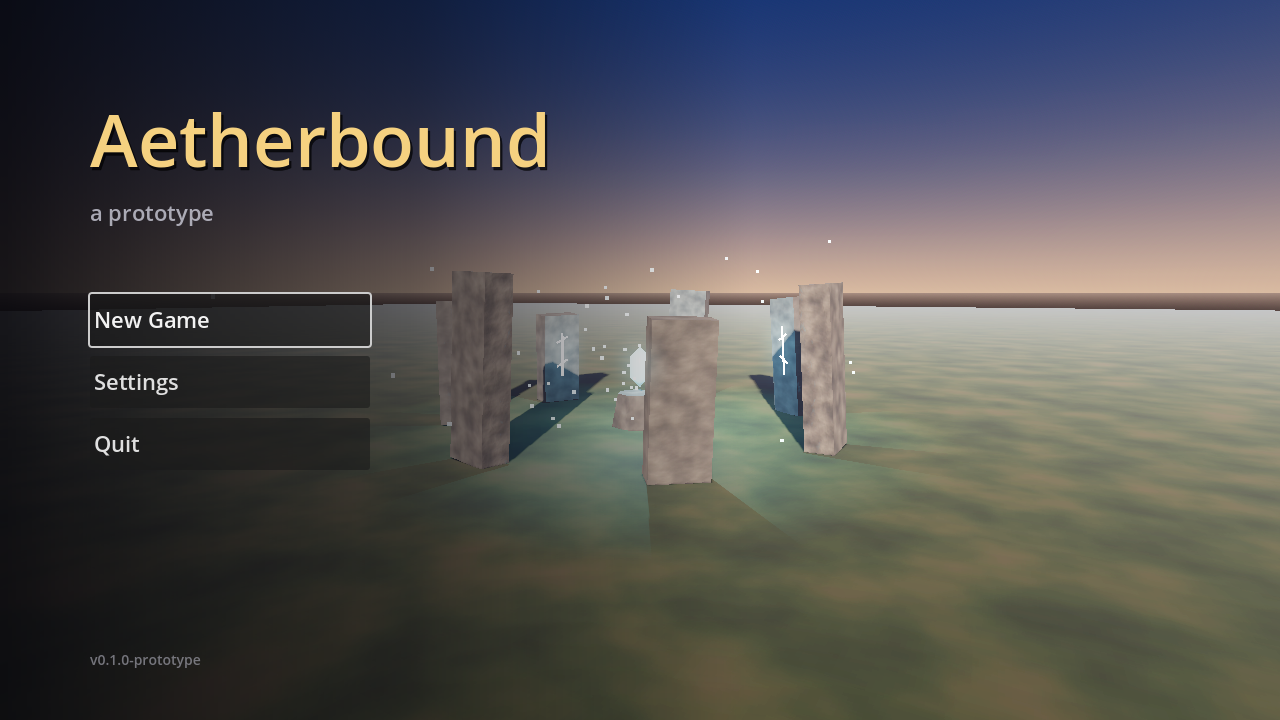
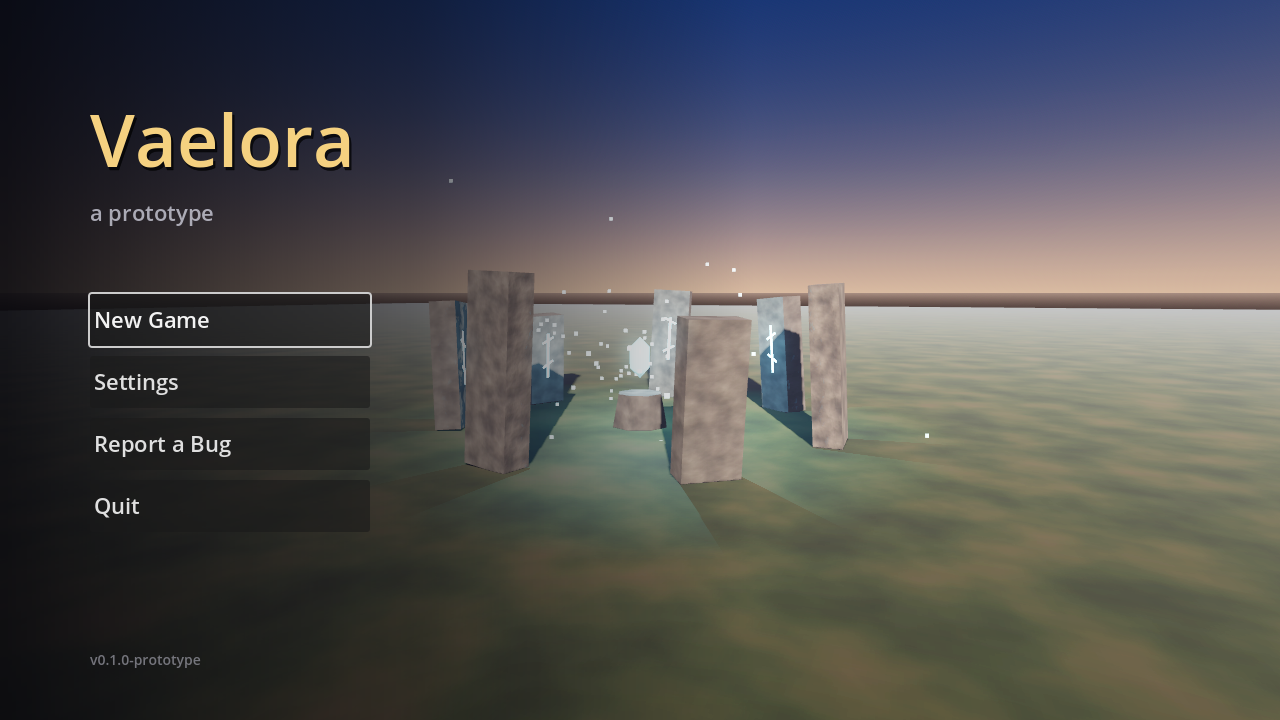
Add LORE.md v1 from the questionnaire answers; title becomes Vaelora
- LORE.md: the world of Vaelora drafted from the answers (kept verbatim
  in docs/lore/): the Arrival of alien lifeforms that brought magic, a
  magic-instead-of-gunpowder medieval world, two moons, magic that
  corrupts when practised corruptly, absent gods, seven races (three
  playable in the demo), the river valley and borderland forest, the
  Riverwatch garrison and forest outlaws, the main threat (lifeforce of
  magical beings being drained to build an army), death as waking up
  wounded or captured. Everything filled in rather than answered is
  marked (suggested), with eight questions for the next round.
- Title screen shows Vaelora; the project name in Project Settings is
  left as is (it decides the save folder).
- Roadmap open questions updated with the answers.

Claude-Session: https://claude.ai/code/session_01BPE8ZczZ4hZnRHyCfMJwVS

diff --git a/LORE.md b/LORE.md
@@ -1,0 +1,236 @@
+# Vaelora: lore bible (draft v1)
+
+Built from your questionnaire answers of 24 October 2026 (kept verbatim in
+`docs/lore/questionnaire-answers-2026-10-24.txt`).
+
+- **Plain text** is what you decided.
+- ***(suggested)*** marks what I filled in to make it hang together. Approve, change or strike
+  each one. Nothing suggested goes into the game until you've said yes.
+- **Questions for you** are collected at the end. Short answers are fine.
+
+---
+
+## In one paragraph
+
+**Vaelora** is a medieval world that took a different road. Long ago, living things from
+another world arrived and brought magic, and strange creatures, with them. Instead of
+inventing gunpowder, Vaelora's peoples learned magic. Anyone can learn it, few master it, and
+used carelessly it corrupts the user. Now, in a river valley on the edge of an old forest,
+the most magical beings are being found **drained of their life**. Someone is taking it,
+and legends nobody believed say it's being used to build an army. You arrive as whoever you
+chose to be: a soldier, a scholar, an outlaw. By the end of the demo you've followed the trail
+far enough to see how big it is.
+
+## Tone and pillars
+
+| | Decision |
+|---|---|
+| **Feel most** | **Wonder** (strange ruins, impossible lights) and **power** (from nobody to legend) |
+| **Hope vs. bleak** | Middle (3/5): the world has real danger and loss, but people and places worth saving |
+| **Humour** | Dry and wry (4/5), like Fallout's: wit in characters and situations, never a joke at the world's expense |
+| **Magic** | High (4/5): visible, spectacular at the top, learnable by anyone |
+| **Strangeness** | High (4/5): familiar medieval ground with alien things in it |
+| **Loves** | Skyrim and Fallout (freedom, sandbox, lore), Game of Thrones (dragons, characters, story), Project Zomboid (survival), Lord of the Rings (a vast world) |
+| **Never** | A chosen-one prophecy; elves perfect and wise or orcs evil brutes; "ancient evil returns" as the only plot |
+
+**The picture to aim for** (your answer to question 30): *walking over a hill crest at dusk,
+hearing a curling scream, seeing a red-eyed monster look up at you, and then a powerful mage
+flies past and runs right through it, killing it instantly.* That moment carries three things
+the game should keep doing: dread in the wild, magic that is overwhelming at its peak, and
+the promise that **you could become that mage**.
+
+---
+
+## The world
+
+### The Arrival
+
+Long ago *(suggested: about 900 years, in the early medieval era)*, **lifeforms from another
+world** came to Vaelora. They brought **magic**, and **creatures** that had never existed
+here. Everything changed after that.
+
+- *(suggested)* Vaelorans call it **the Arrival**. Every people tells it differently (your
+  answer to question 5): some say they themselves came with it, some say it came to them,
+  some say it was a punishment.
+- *(suggested)* The arrivals themselves are rarely seen and poorly understood. Scholars call
+  them **the Vael** (the world's name is taken from theirs), others say "the Visitors". Are
+  they still here? Hidden, gone, or living inside the magic itself? That's a mystery for the
+  full game, not the demo.
+
+### A different road
+
+Magic arrived in medieval times, so instead of developing guns, people leaned into magic.
+Vaelora looks medieval, with castles, walled river towns, longhouses at the forest edge and
+guild halls. But its "technology" is magical: *(suggested)* rune-lit streets in rich towns,
+enchanted locks, healing colleges instead of barber-surgeons, and no gunpowder at all.
+
+### The sky
+
+**Two moons, with tides of power.**
+- *(suggested)* **Ilun**, the old moon, white, always there.
+- *(suggested)* **The Wanderer**, a smaller green-tinged moon that appeared with the Arrival.
+  When it's dark (a "new Wanderer"), old stones and buried relics wake. This ties to what's
+  already in the game: the stone circle glows at the new moon, and wisps come out at night.
+- *(suggested)* When both moons are full, magic surges: spells are stronger and corruption
+  spreads faster. A future world event.
+
+---
+
+## Magic
+
+- **Where it comes from:** the alien lifeforms brought it. With practice anyone can learn to
+  use it, but few can master it.
+- **What it costs:** using it **corruptly** corrupts you, physically (exhaustion, corruption,
+  madness). *(suggested)* "Corrupt" practice means taking what isn't yours: drawing power from
+  another living thing instead of from yourself and the world. That's exactly what the force
+  behind the main threat is doing, at scale.
+- **How people see mages:** both respected and feared. *(suggested)* Mages trained in the
+  **colleges** are respected and licensed. An unlicensed mage is watched, and the Riverwatch
+  garrison can arrest one. Hedge-mages in the forest don't care.
+- *(suggested)* At the peak, masters can **fly**, as in your scene. Flight is far beyond the
+  demo: something the player sees, and wants.
+
+## Gods and belief
+
+- **The gods are dead or absent, their followers still argue, and each race believes
+  differently. Nobody knows the truth.**
+- **Something answers prayers, but nobody knows what.** Magic is real; the gods are unknown.
+- *(suggested)* The shrines in the demo (the Acolyte background's "old rites") honour gods
+  who never answer in words, yet healing prayers really do work. Is it the gods, the magic,
+  or the Vael? Another mystery for the full game.
+
+---
+
+## The peoples
+
+**At least seven races in the full game.** Every race has its twisted and its dignified
+sorts. There's racial tension, as everywhere, but for the most part anyone can be anything.
+
+**In the demo:** Human, Elf and Orc are playable. Every new playable race needs models,
+animation and voices, so the others appear in the lore, and maybe as rare NPCs, first.
+
+| Race | *(suggested)* one line | Name style *(suggested)* |
+|---|---|---|
+| **Humans** | The most numerous; river-traders, farmers and garrison soldiers, practical and stubborn. Most of the colleges' students are human, because they'll try anything | Celtic/Gaelic in the valley (Maren, Eilidh), Norse/Germanic in the borderland (Brannoc, Sigrun) |
+| **Elves** | Long-lived, and the people most changed by the Arrival. Some say it made them. Brilliant mages, but also the most prone to corruption. Proud families with old debts | Invented and flowing (Ithariel, Sennaveth) |
+| **Orcs** | Clans bound by oaths and work; the best smiths and the steadiest soldiers. Distrust easy magic, so their mages are rare and formidable | Hard and guttural (Grukka, Durzhak) |
+| Four more | To decide later (see the questions) | |
+
+*(suggested)* Two more name styles have a place: **Latin/Imperial** for the colleges and old
+institutions (titles, spell names, the law), and **Slavic** for the forest folk and outlaws.
+
+---
+
+## The demo region
+
+**A temperate river valley in autumn, at the edge of a wild borderland forest**: farmland
+and colour by the river, deep old woods beyond it. *(suggested)* Name: **the Greywater Vale**,
+with **the Thornwood** to the north.
+
+What's there (already in the game, kept):
+- **Riverwatch**: the garrison town on the river (off-screen in the test level).
+- **The north road** and **Maren's waystation**.
+- **The stone circle** with its waking crystal, and **the Waking Stones** quest.
+- **The Greyfang pack** in Greyfang Hollow.
+- **The bandit camp**.
+- **The Old Barrow** and its **Stone Guardian**.
+- **Wisps** at the stones by night. *(suggested)* They're small magical beings, which makes
+  them the first victims of the drain (see below).
+
+## Factions (reputation only in the demo; joining comes in the full game)
+
+| Faction | Where | Stance |
+|---|---|---|
+| **Riverwatch Garrison** | The town | The law, stretched thin. Licenses mages and hangs bandits |
+| **The outlaws** *(suggested name: the Thornwood Free)* | The forest | Say the law is the real problem: taxes, mage licences, a garrison that never comes when farms burn. Some of them are just thieves, some have a point |
+
+The current bandit camp becomes the rough edge of the outlaws: the ones who stopped having a point.
+
+---
+
+## The main threat: the Draining *(name suggested)*
+
+An **unknown force is stealing the lifeforce of the most magical beings** and building an
+unknown army. There are legends, but no one thought it could be real.
+
+To keep clear of "ancient evil returns" and of a chosen one, this is my suggestion:
+- *(suggested)* **It's people, and it's new.** Behind the legend is a circle of corrupt mages
+  who learned to take life from magical beings. That's exactly the corruption the colleges
+  warn about, done on purpose. The legend is old; the people living it out are not.
+- *(suggested)* **What the player sees first:** wisps fading at the stones, a Greyfang wolf
+  found hollow and grey, the stone circle waking early. Small wrong things.
+- *(suggested)* **Monsters stay rare** (your answer to question 24). Most fights are people:
+  bandits, outlaws, cultists. Their "army" is mostly hired swords so far, plus a few
+  creatures stuffed with stolen life.
+- **The demo ends with one creature boss seeping with magic** (your answer to question 23).
+  *(suggested)* It's the first of the army's creatures: a beast swollen and unstable with
+  stolen life, half-finished. Killing it shows how much life they've already taken, and
+  where it was sent. That's the cliffhanger.
+- **One ending, but how you got there changes what people say about you**, and the demo ends
+  on that cliffhanger. Riverwatch and the outlaws remember who helped them.
+
+## Who you are
+
+The start depends on your background. *(suggested)* Each of the six arrives in the valley
+for its own reason, and the first conversation knows why:
+
+| Background | *(suggested)* why you're here |
+|---|---|
+| Soldier | Posted to Riverwatch, short-handed |
+| Scholar | Sent by a college to study the waking stones |
+| Outlaw | Running from a bounty, toward the forest |
+| Hunter | Following the Greyfang's strange tracks |
+| Acolyte | Sent to a shrine whose prayers stopped working |
+| Merchant | Your caravan never reached Riverwatch |
+
+---
+
+## Death: you wake up wounded
+
+Death means **waking up wounded**: sometimes captured by enemies, sometimes found by allies.
+The point is variety.
+
+*(suggested)* What that could look like:
+- **Found:** you wake at the waystation or a camp, with a lasting injury (lower maximum
+  health for a day) and a cost (gold, or a lost item).
+- **Captured:** if bandits or outlaws beat you, you wake in their camp without your gear, and
+  escaping is a short sequence: sneak, fight, or talk.
+- **Left for dead:** in the wild, you wake where you fell, hours later, hurt and cold.
+
+*(suggested)* Build this for **Hardcore first**, with Normal keeping reload-your-save, then
+consider it for both after playtesting. Capture needs its own escape scenes, so it's a real
+chunk of work.
+
+## Names kept and changed
+
+| | |
+|---|---|
+| **Game title** | **Vaelora** (was Aetherbound). Also the world's name |
+| Kept | Riverwatch, the Greyfang pack, Maren, Brannoc, the Waking Stones and the stone circle, wisps, the Stone Guardian and the Old Barrow, Greyfang Hollow, Bandit Camp |
+
+## Production decisions recorded
+
+- **Asset budget:** free for now; spend whatever is needed later.
+- **Attributes and traits:** decide after the playtest.
+
+---
+
+## Questions for you
+
+Short answers are fine, e.g. "1: yes, 2: Ilun ok, rename Wanderer to X".
+
+1. **The Vael:** keep "the Vael" as the name of the arrivals, or another name? Should anyone
+   ever meet one, even in the full game?
+2. **The moons:** OK with Ilun and the Wanderer (the Wanderer arriving with the Vael)?
+3. **The four other races:** any you already have in mind? If not, I'll offer a shortlist
+   that fits the Arrival (for example a people who came *with* it, and a people it changed).
+4. **The Draining:** are corrupt mages behind it right for you, or should the unknown force be
+   something else (the Vael themselves, a creature, a god)? This decides the whole main quest.
+5. **The region:** Greywater Vale and the Thornwood, or other names?
+6. **The outlaws:** "the Thornwood Free", or another name?
+7. **Death:** Hardcore first, Normal keeps reload? Or wake-up-wounded for everyone?
+8. **Elves:** OK with them as the people most changed by the Arrival, and most prone to
+   corruption?
+
+Once these are settled, next is the **demo questline outline**: 3–5 main quests and 5–8 side
+quests, as a one-page outline for you to approve before anything is built.

diff --git a/README.md b/README.md
@@ -17,7 +17,7 @@ The full design plan, pillars, scope, and foundational decisions are in [DESIGN.
 
 ## Current Status
 
-Godot 4 project in [`godot/`](godot): a title screen, a character creator (race, background, traits, attributes, Survival and Hardcore modes) with active powers and perk trees, first-person controller with mantling and vaulting, a day/night cycle, survival needs with campfires and beds, Health/Stamina/Magicka, skills that improve with use and character levels, inventory/gold/loot, magic (8 spells in 3 schools: streams, bolts, bursts, wards and self spells, with dual-casting), save slots with a pause menu and settings (graphics presets, an FPS counter, key rebinding, a bug-report button), footsteps by surface and day/night ambience, E-to-interact, JSON dialogue, and Avowed-style melee (combos, charged heavy attacks, block, parry, dodge, stagger) with seven weapon types (sword, dagger, axe, mace, greatsword, shield, bow) against a pathfinding wolf pack that telegraphs its bites, a bandit camp whose bandits guard, parry and take turns, and wisps that haunt the stone circle at night, a greybox dungeon with traps, a lever puzzle and a stone guardian boss, three quests (one with three endings) tracked in a journal with a compass, quest markers and a map, and Riverwatch faction reputation. Guides: [setup & collision](docs/godot-starter/FIRST_PERSON_SETUP.md), [dialogue](docs/godot-starter/DIALOGUE.md), [races](docs/godot-starter/RACES.md), [stats, saving, title screen, settings & graphics](docs/godot-starter/STATS_AND_SAVING.md), [combat](docs/godot-starter/COMBAT.md), [skills](docs/godot-starter/SKILLS.md), [inventory](docs/godot-starter/INVENTORY.md), [magic](docs/godot-starter/MAGIC.md), [quests](docs/godot-starter/QUESTS.md), [factions](docs/godot-starter/FACTIONS.md), [art & assets](docs/godot-starter/ASSETS.md), [Terrain3D setup](docs/godot-starter/TERRAIN3D.md), [controls, climbing & hints](docs/godot-starter/CONTROLS.md), [day/night, survival & resting](docs/godot-starter/SURVIVAL.md), [status effects, attributes, equipment, interiors, footsteps & ambience](docs/godot-starter/FOUNDATIONS.md), [character creation, traits, powers & perks](docs/godot-starter/CHARACTER.md), [dungeons, traps & bosses](docs/godot-starter/DUNGEONS.md), [compass & map](docs/godot-starter/MAP.md), [tests, CI & builds](docs/godot-starter/TESTING.md). To try it: [the playtest checklist](docs/PLAYTEST.md).
+Godot 4 project in [`godot/`](godot): a title screen, a character creator (race, background, traits, attributes, Survival and Hardcore modes) with active powers and perk trees, first-person controller with mantling and vaulting, a day/night cycle, survival needs with campfires and beds, Health/Stamina/Magicka, skills that improve with use and character levels, inventory/gold/loot, magic (8 spells in 3 schools: streams, bolts, bursts, wards and self spells, with dual-casting), save slots with a pause menu and settings (graphics presets, an FPS counter, key rebinding, a bug-report button), footsteps by surface and day/night ambience, E-to-interact, JSON dialogue, and Avowed-style melee (combos, charged heavy attacks, block, parry, dodge, stagger) with seven weapon types (sword, dagger, axe, mace, greatsword, shield, bow) against a pathfinding wolf pack that telegraphs its bites, a bandit camp whose bandits guard, parry and take turns, and wisps that haunt the stone circle at night, a greybox dungeon with traps, a lever puzzle and a stone guardian boss, three quests (one with three endings) tracked in a journal with a compass, quest markers and a map, and Riverwatch faction reputation. Guides: [setup & collision](docs/godot-starter/FIRST_PERSON_SETUP.md), [dialogue](docs/godot-starter/DIALOGUE.md), [races](docs/godot-starter/RACES.md), [stats, saving, title screen, settings & graphics](docs/godot-starter/STATS_AND_SAVING.md), [combat](docs/godot-starter/COMBAT.md), [skills](docs/godot-starter/SKILLS.md), [inventory](docs/godot-starter/INVENTORY.md), [magic](docs/godot-starter/MAGIC.md), [quests](docs/godot-starter/QUESTS.md), [factions](docs/godot-starter/FACTIONS.md), [art & assets](docs/godot-starter/ASSETS.md), [Terrain3D setup](docs/godot-starter/TERRAIN3D.md), [controls, climbing & hints](docs/godot-starter/CONTROLS.md), [day/night, survival & resting](docs/godot-starter/SURVIVAL.md), [status effects, attributes, equipment, interiors, footsteps & ambience](docs/godot-starter/FOUNDATIONS.md), [character creation, traits, powers & perks](docs/godot-starter/CHARACTER.md), [dungeons, traps & bosses](docs/godot-starter/DUNGEONS.md), [compass & map](docs/godot-starter/MAP.md), [tests, CI & builds](docs/godot-starter/TESTING.md). To try it: [the playtest checklist](docs/PLAYTEST.md). The world: [LORE.md](LORE.md) (draft).
 
 ## Repo
 

diff --git a/ROADMAP.md b/ROADMAP.md
@@ -139,7 +139,7 @@ This is a **systems sandbox**, not yet a game slice: placeholder art, one test l
 **Rough size:** 400–700 hours (≈ 5–8 months). **Demo target: about 9–14 months from now.**
 
 - [ ] **Lore bible v1** from your ideas: the region, its history, factions, the demo's story.
-      (Questionnaire to fill in: docs/LORE_QUESTIONNAIRE.md.)
+      (v1 drafted from the questionnaire: LORE.md. Your approval of its suggested parts is still needed.)
 - [ ] **Asset pass:** buy or download a consistent environment set (rocks, trees, buildings)
       plus humanoid NPC models and animations. Terrain3D landscape for the region.
 - [ ] **One outdoor region** (~1 km²), with a small town or village, a road, wilderness,
@@ -249,11 +249,12 @@ Pick and order these after the demo, based on feedback:
 
 ## Open questions (to settle as we go)
 
-1. **Your lore:** world name, the region the demo is set in, history, gods, how magic
-   works, the main conflict, what each race's culture is like. *(Needed before Phase 2's
-   questline, sooner is better.)*
-2. **Attributes:** the 6-attribute draft above, or fewer/more?
-3. **Backgrounds and traits:** keep, cut or add to the drafts?
-4. **Death in hardcore:** reload a save, or permadeath?
-5. **Working title:** the engine plan used *Aetherbound* as a placeholder. Keep it?
-6. **Budget** for bought assets, roughly, to choose between packs.
+Answered in the lore questionnaire (24 October 2026); see `LORE.md`:
+1. **Your lore:** drafted as `LORE.md` v1 (world: Vaelora). The *(suggested)* parts and its
+   "Questions for you" are still open.
+2. **Attributes:** decide after the playtest.
+3. **Backgrounds and traits:** decide after the playtest.
+4. **Death:** neither permadeath nor reload. You wake up wounded, sometimes captured by
+   enemies, sometimes found by allies (to design; suggested for Hardcore first).
+5. **Title:** **Vaelora** (also the world's name).
+6. **Budget:** free assets for now; spend what's needed later.

diff --git a/docs/godot-starter/STATS_AND_SAVING.md b/docs/godot-starter/STATS_AND_SAVING.md
@@ -60,8 +60,9 @@ versions still load.
 The game opens on the **title screen** (`ui/title_screen.tscn`, the project's main scene): the
 stone circle at dusk with the camera slowly circling it, and **Continue** (the most recent save;
 only shown if there is one), **New Game**, **Load Game**, **Settings**, **Report a Bug**, **Quit**.
-The name on it is `GAME_TITLE` in `ui/title_screen.gd`, a placeholder until the title is
-decided. The version under it is **Project Settings → Application → Config → Version**.
+The name on it, **Vaelora**, is `GAME_TITLE` in `ui/title_screen.gd`. (The project's own name
+in Project Settings stays "High Fantasy Sandbox RPG" for now: changing it moves the folder
+where saves and settings live, so do it once, before the first public build.) The version under it is **Project Settings → Application → Config → Version**.
 
 ![Title screen](../images/title_screen.png)
 
